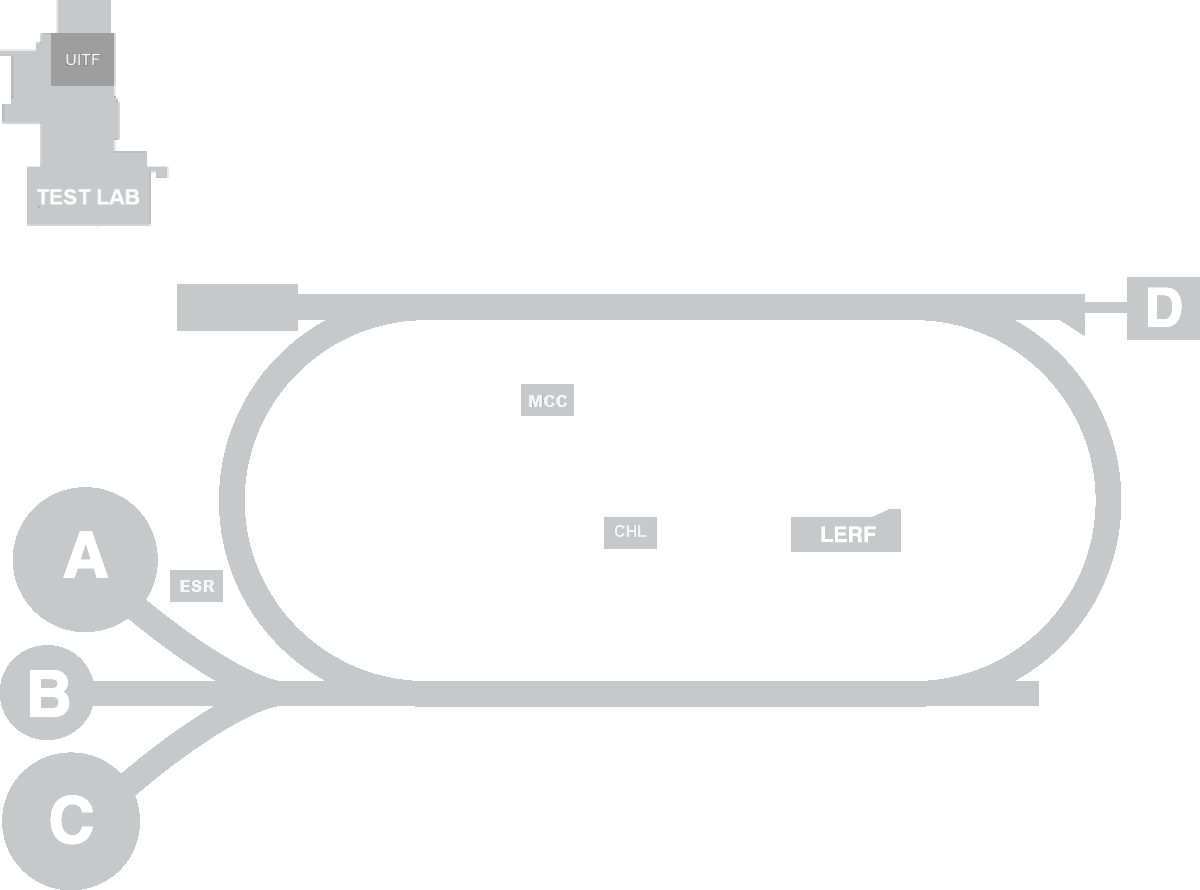
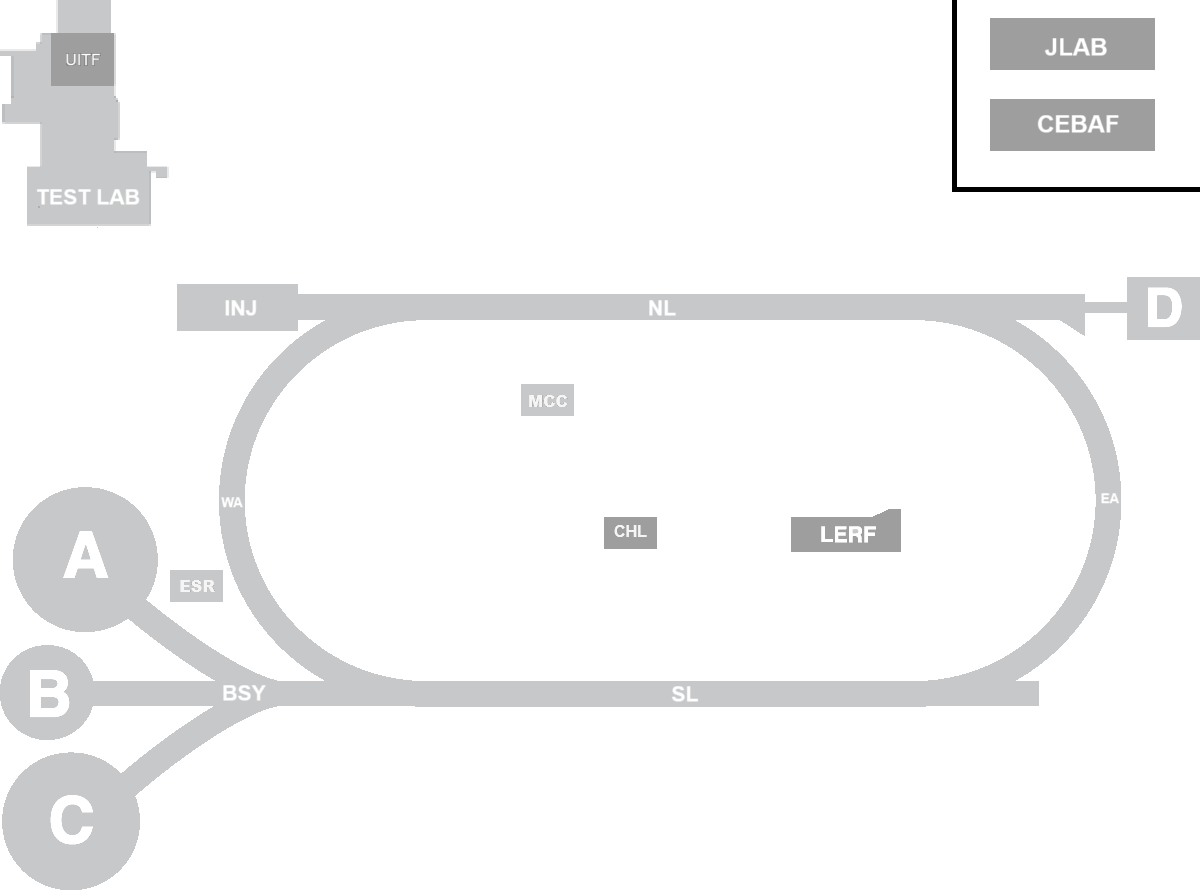
Add counts to each location

diff --git a/src/main/webapp/resources/js/active.js b/src/main/webapp/resources/js/active.js
@@ -1,9 +1,18 @@
 const urlObject = new URL(self.location);
 const contextPath = '/' + urlObject.pathname.split('/')[1];
 
+const activeByLocation = new Map();
 const activeByName = new Map();
 const activeUnregistered = new Map();
 const activeUnfilterable = new Map();
+
+const cebafTree = ['CEBAF', 'MCC', 'ESR', 'HallA', 'HallB', 'HallC', 'HallD'],
+      injTree = ['Injector', '1D', '2D', '3D', '4D', '5D'],
+      nlTree = ['North Linac', 'Linac1', 'Linac3', 'Linac5', 'Linac7', 'Linac9'],
+      slTree = ['South Linac', 'Linac2', 'Linac4', 'Linac6', 'Linac8'],
+      eaTree = ['East Arc', 'ARC1', 'ARC3', 'ARC5', 'ARC7', 'ARC9'],
+      waTree = ['West Arc', 'ARC2', 'ARC4', 'ARC6', 'ARC8', 'ARCA'],
+      bsyTree = ['BSY', 'BSY Dump', 'BSY2', 'BSY4', 'BSY6', 'BSY8', 'BSYA'];
 
 class EffectiveAlarm {
     constructor(name, priority, category, rationale, action, contact, filterable, latchable,
@@ -100,6 +109,9 @@ let table = document.getElementById("alarm-table"),
     thList = table.querySelectorAll("thead th"),
     columnStrList = [...thList.values()].map(th => th.textContent),
     alarmCountSpan = document.getElementById("alarm-count"),
+    cebafCountSpan = document.getElementById("cebaf-count"),
+    injectorCountSpan = document.getElementById("injector-count"),
+    southlinacCountSpan = document.getElementById("southlinac-count"),
     diagramContainer = document.getElementById("diagram-container"),
     unregisteredCountSpan = document.getElementById("unregistered-count"),
     unregisteredSpan = document.getElementById("unregistered"),
@@ -158,6 +170,27 @@ function updateOrAddAlarms(data) {
 function removeAlarms(keys) {
 
     for(const name of keys) {
+        let alarm = activeByName.get(name);
+
+
+        if(alarm !== undefined) {
+            let locationCsv = alarm.location;
+            let locationArray = [];
+
+            if (locationCsv === undefined) {
+                locationArray = ['JLAB']
+            } else {
+                locationArray = locationCsv.split(",");
+            }
+
+            for (let l of locationArray) {
+                let alarmSet = activeByLocation.get(l);
+                if (alarmSet !== undefined) {
+                    alarmSet.delete(name);
+                }
+            }
+        }
+
         activeByName.delete(name);
         activeUnregistered.delete(name);
         activeUnfilterable.delete(name);
@@ -174,7 +207,7 @@ evtSource.addEventListener('ping', (e) =>{
     let ts = e.data,
         formatted = new Date(ts);
 
-    livenessEl.innerHTML = formatted.toLocaleString();
+    livenessEl.innerHTML = formatted.toLocaleTimeString();
 });
 
 const loading = document.getElementById('loading');
@@ -249,7 +282,7 @@ function updateCount() {
 
     alarmCountSpan.innerText = jlab.integerWithCommas(count);
 
-    if(count > 0) {
+    if (count > 0) {
         alarmCountSpan.classList.add("alarming");
     } else {
         alarmCountSpan.classList.remove("alarming");
@@ -257,7 +290,7 @@ function updateCount() {
 
     unregisteredCountSpan.textContent = jlab.integerWithCommas(activeUnregistered.size);
 
-    if(activeUnregistered.size > 0) {
+    if (activeUnregistered.size > 0) {
         unregisteredSpan.classList.add("shown");
     } else {
         unregisteredSpan.classList.remove("shown");
@@ -265,12 +298,58 @@ function updateCount() {
 
     unfilterableCountSpan.textContent = jlab.integerWithCommas(activeUnfilterable.size);
 
-    if(activeUnfilterable.size > 0) {
+    if (activeUnfilterable.size > 0) {
         unfilterableSpan.classList.add("shown");
     } else {
         unfilterableSpan.classList.remove("shown");
     }
+
+    //console.log('activeByLocation', activeByLocation);
+
+    let injUnion = unionOfLocationTree(injTree);
+    let nlUnion = unionOfLocationTree(nlTree);
+    let slUnion = unionOfLocationTree(slTree);
+    let eaUnion = unionOfLocationTree(eaTree);
+    let waUnion = unionOfLocationTree(waTree);
+    let bsyUnion = unionOfLocationTree(bsyTree);
+
+    let cebafUnion = unionOfLocationTree(cebafTree);
+    cebafUnion = cebafUnion.union(injUnion);
+    cebafUnion = cebafUnion.union(nlUnion);
+    cebafUnion = cebafUnion.union(slUnion);
+    cebafUnion = cebafUnion.union(eaUnion);
+    cebafUnion = cebafUnion.union(waUnion);
+    cebafUnion = cebafUnion.union(bsyUnion);
+
+    //console.log('cebafUnion', cebafUnion);
+
+    cebafCountSpan.firstElementChild.innerText = jlab.integerWithCommas(cebafUnion.size);
+    injectorCountSpan.firstElementChild.innerText = jlab.integerWithCommas(injUnion.size);
+    southlinacCountSpan.firstElementChild.innerText = jlab.integerWithCommas(slUnion.size);
+
+    updateShown(cebafUnion, cebafCountSpan);
+    updateShown(injUnion, injectorCountSpan);
+    updateShown(slUnion, southlinacCountSpan);
 }
+function updateShown(locationUnion, span) {
+    if (locationUnion.size > 0) {
+        span.classList.add("location-active");
+    } else {
+        span.classList.remove("location-active");
+    }
+}
+function unionOfLocationTree(locationTree) {
+    let unionSet = new Set([]);
+    for (let l of locationTree) {
+        let locationSet = activeByLocation.get(l);
+        if(locationSet !== undefined) {
+            unionSet = unionSet.union(locationSet);
+        }
+    }
+
+    return unionSet;
+}
+
 function updateOrAddToDiagram(alarm) {
     const element = document.createElement("span"),
           id = "alarm-" + alarm.name.replaceAll(' ', ''),
@@ -288,6 +367,13 @@ function updateOrAddToDiagram(alarm) {
     }
 
     for(let l of locationArray) {
+        let alarmSet = activeByLocation.get(l);
+        if(alarmSet === undefined) {
+            alarmSet = new Set([]);
+            activeByLocation.set(l, alarmSet);
+        }
+        alarmSet.add(alarm.name);
+
         const locElement = document.createElement("span");
         let locationClass = 'location-' + l.replaceAll(' ', '');
         locElement.classList.add(locationClass);

diff --git a/src/main/webapp/resources/css/active.css b/src/main/webapp/resources/css/active.css
@@ -161,3 +161,29 @@ div#page {
     width: 56px;
     background: url("https://ace.jlab.org/workmap/resources/img/pss/GTS_red_line.png") no-repeat scroll 0 0 transparent;
 }
+.location-status {
+    display: none;
+    position: absolute;
+    background-color: red;
+    color: white;
+    border-radius: 24px;
+    padding: 2px 4px;
+}
+.location-status a {
+    color: white;
+}
+span.location-active {
+    display: block;
+}
+#cebaf-count {
+    top: 150px;
+    left: 1130px;
+}
+#injector-count {
+    top: 330px;
+    left: 270px;
+}
+#southlinac-count {
+    top: 725px;
+    left: 705px;
+}
